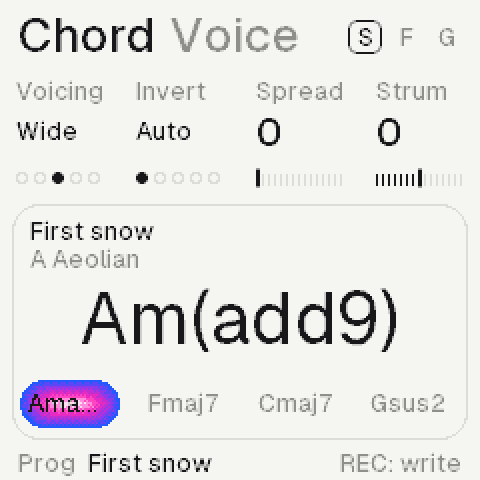
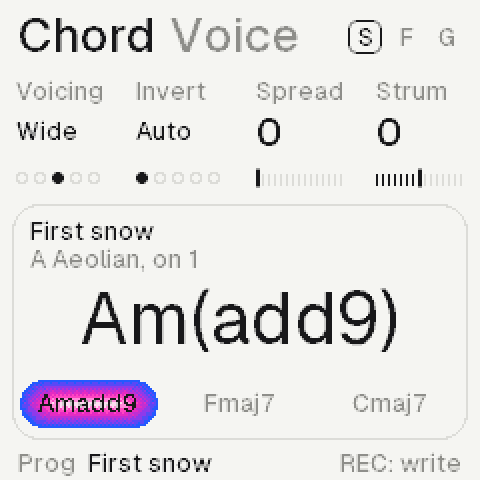
The manual: patterns, the chord keys everywhere and their types

Changed region(s): [[0.0625, 0.7812, 0.6875, 0.9062], [0.7188, 0.8125, 0.9375, 0.875], [0.3125, 0.5312, 0.4062, 0.5625]]

diff --git a/web/manual.html b/web/manual.html
@@ -41,6 +41,7 @@
       <a href="#rolls">The rolls</a>
       <a href="#chords">Chords</a>
       <a href="#writing">Writing progressions</a>
+      <a href="#patterns">Patterns</a>
       <a href="#saving">Saving</a>
       <p class="mgroup">Sound</p>
       <a href="#effects">Effects</a>
@@ -151,6 +152,7 @@
           <p><b>PRESETS</b><span>The next recording, then your saved sounds, on any page</span></p>
           <p><b>OCT&minus; OCT+</b><span>Two octaves down or up</span></p>
           <p><b>On Chord</b><span>Each key plays a chord instead</span></p>
+          <p><b>Keys: All</b><span>Chords on every page but the roll (Chord, its Keys row)</span></p>
         </div>
       </article>
 
@@ -181,9 +183,10 @@
           <p><b>ALGORITHM</b><span>The progression: 16 presets, then User 1 to 4</span></p>
           <p><b>Voice row</b><span>Voicing, inversion (Auto moves least), spread, strum</span></p>
           <p><b>Key row</b><span>Key, mode, chord length, rhythm</span></p>
+          <p><b>Keys row</b><span>Chord or All; the type: sevenths, triads, ninths, add9, sus2, sus4, 6/9, power</span></p>
           <p><b>SEQ + ALGO</b><span>How this synth follows: chords, key, chord, root, free</span></p>
         </div>
-        <p class="note">The first song: the pad plays the chords, the piano follows the key, the third synth the root.</p>
+        <p class="note">The first song: the pad plays the chords, the piano follows the key, the third synth the root. The card's grey line names the synth that plays them.</p>
       </article>
 
       <article id="writing" data-group="Playing">
@@ -196,6 +199,18 @@
           <li><i class="mk">4</i>Hold one: K1 moves it, K2 its quality, K3 its bars, K4 its bass.</li>
           <li><i class="mk">5</i>ARP held: K1 the cursor; OCT+ prints it into the synth's roll.</li>
         </ol>
+      </article>
+
+      <article id="patterns" data-group="Playing">
+        <h1>Patterns</h1>
+        <p class="msub">Eight a song: each the three rolls and the progression. The sounds, the key and the tempo stay.</p>
+        <figure class="mfig"><img src="img/screens/16_home_held.png" alt="Patterns" width="240" height="240"><figcaption>HOME held: the one playing lit, an empty one grey.</figcaption></figure>
+        <div class="mt">
+          <p><b>HOME + white key</b><span>Pattern 1 to 8; playing, it waits for the bar</span></p>
+          <p><b>An empty one</b><span>Starts as a copy of the one playing</span></p>
+          <p><b>HOME + black key</b><span>Mutes synth 1, 2 or 3, and back</span></p>
+          <p><b>HOME + OCT&minus;</b><span>Twice: clears the pattern's three rolls</span></p>
+        </div>
       </article>
 
       <article id="saving" data-group="Playing">
@@ -269,7 +284,6 @@
         <h1>Not built yet</h1>
         <p class="msub">On the pages already, coming in the next versions.</p>
         <div class="mt">
-          <p><b>Patterns</b><span>Eight a song, switched with HOME held</span></p>
           <p><b>LFO</b><span>Its sound (the page draws it already)</span></p>
           <p><b>Layer</b><span>A second recording under a sound</span></p>
           <p><b>Undo</b><span>GLO and OCT&minus;, sixteen steps back</span></p>
@@ -306,6 +320,6 @@
   </footer>
 </main>
 <script src="app.js?v=12"></script>
-<script src="manual.js?v=4"></script>
+<script src="manual.js?v=5"></script>
 </body>
 </html>

diff --git a/web/index.html b/web/index.html
@@ -144,7 +144,7 @@
       <button class="page on" data-src="img/screens/01_home.png" data-name="Home" data-b="6" data-say="The synths, the one sounding lit"><kbd>HOME</kbd><b>Home</b><span></span></button>
       <button class="page" data-src="img/screens/02_roll.png" data-name="Roll" data-b="9" data-say="A sequence, the cursor lit"><kbd>SEQ</kbd><b>Roll</b><span></span></button>
       <button class="page" data-src="img/screens/07_chord.png" data-name="Chord" data-b="8" data-say="The chord now, the progression"><kbd>ARP</kbd><b>Chord</b><span></span></button>
-      <button class="page" data-src="img/screens/16_home_held.png" data-name="Patterns" data-b="6" data-hold="2500" data-say="Eight a song, coming next"><kbd>HOME</kbd><b>Patterns</b><span>held</span></button>
+      <button class="page" data-src="img/screens/16_home_held.png" data-name="Patterns" data-b="6" data-hold="2500" data-say="The playing one lit, the next a ring"><kbd>HOME</kbd><b>Patterns</b><span>held</span></button>
       <button class="page" data-src="img/screens/03_sound.png" data-name="Sound" data-b="4" data-say="The sound&#39;s shape, its loop"><kbd>EDIT</kbd><b>Sound</b><span></span></button>
       <button class="page" data-src="img/screens/04_filter.png" data-name="Filter" data-b="1" data-say="The response, its cutoff a point"><kbd>SEL</kbd><b>Filter</b><span></span></button>
       <button class="page" data-src="img/screens/05_amp.png" data-name="Amp" data-b="2" data-say="The envelope, its points round"><kbd>ENV</kbd><b>Amp</b><span></span></button>
